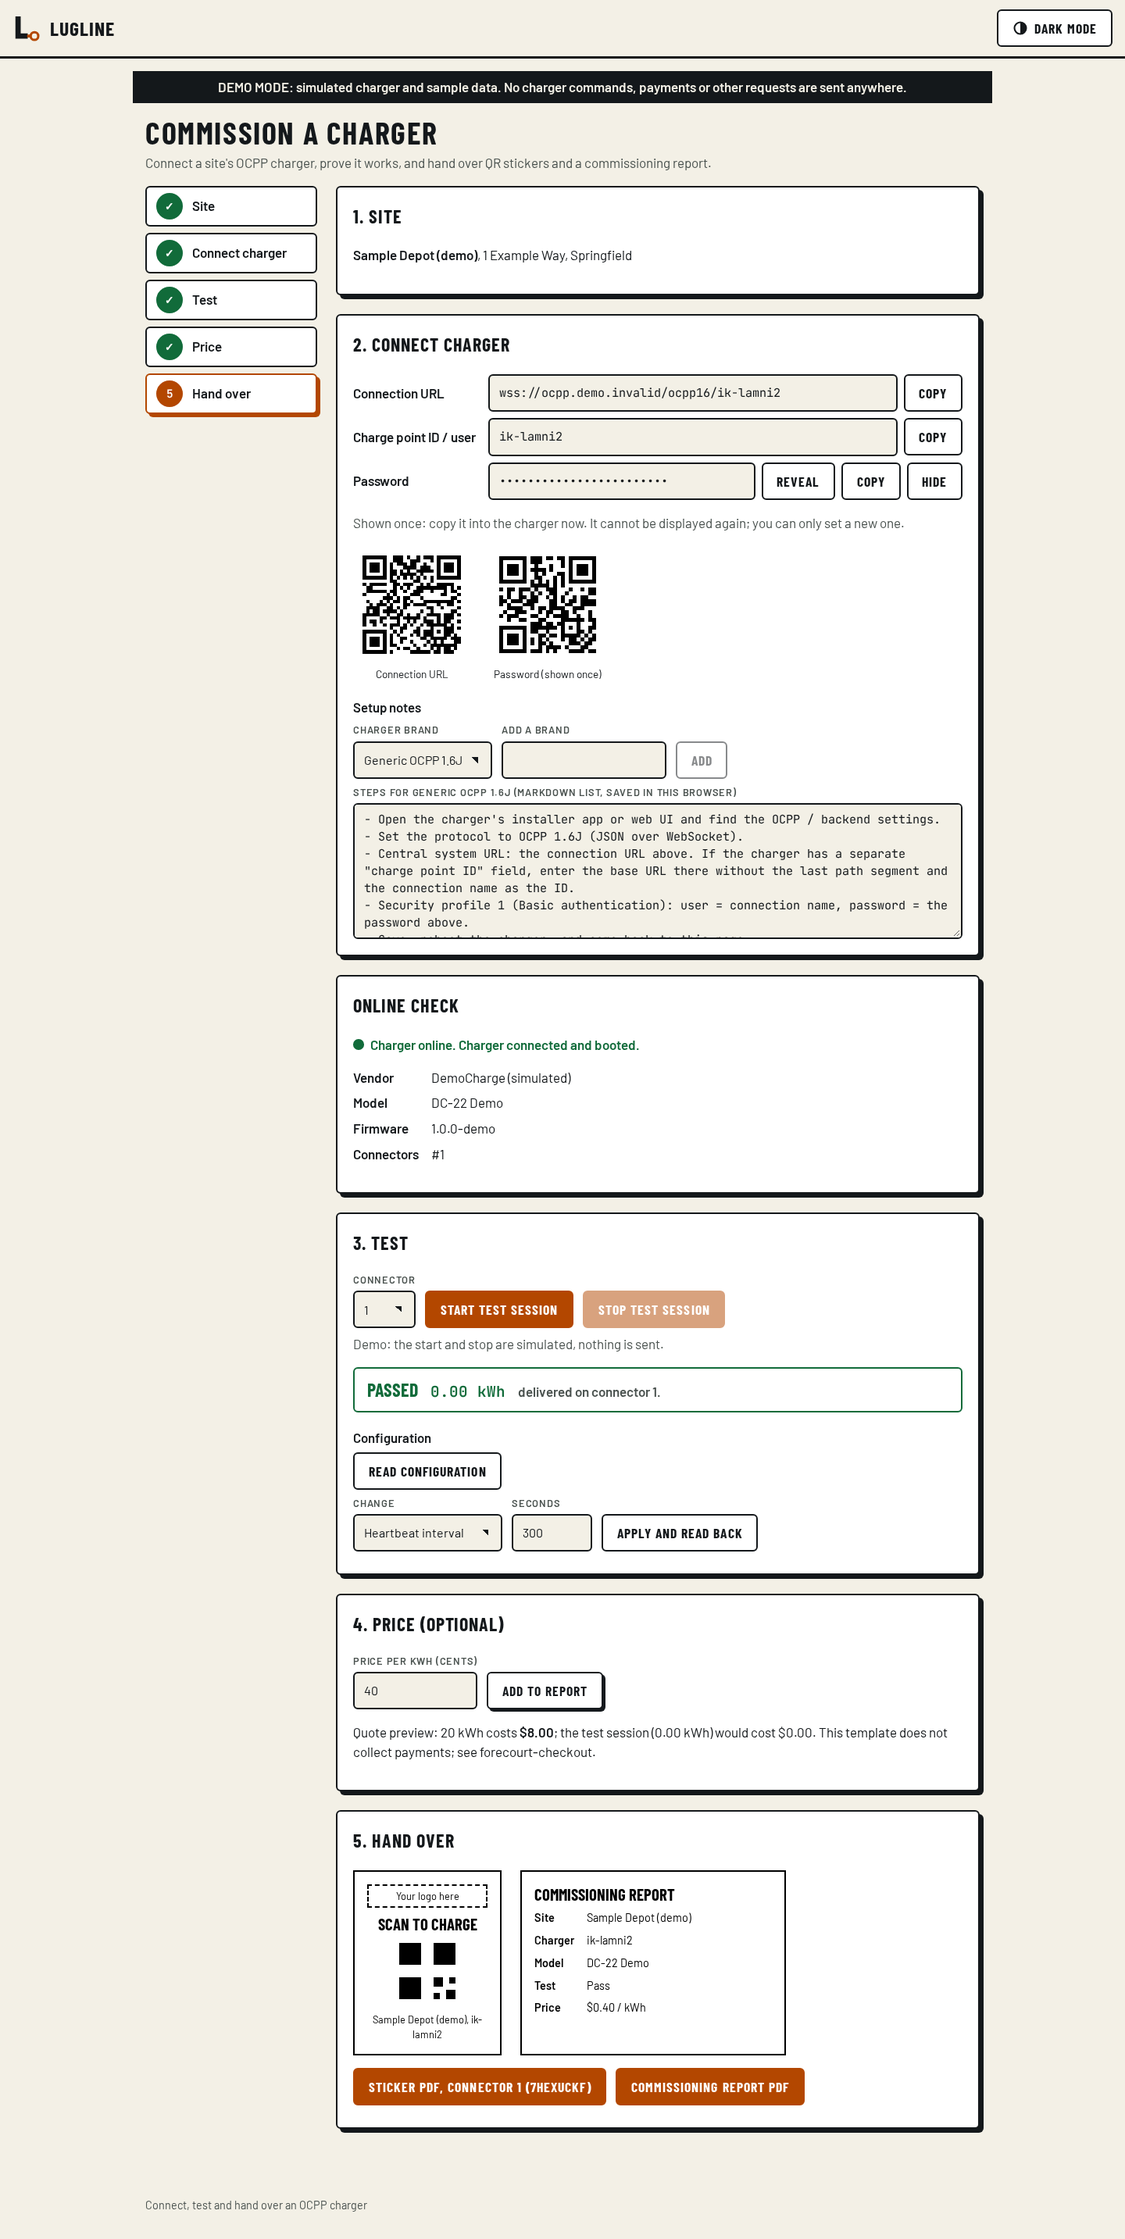
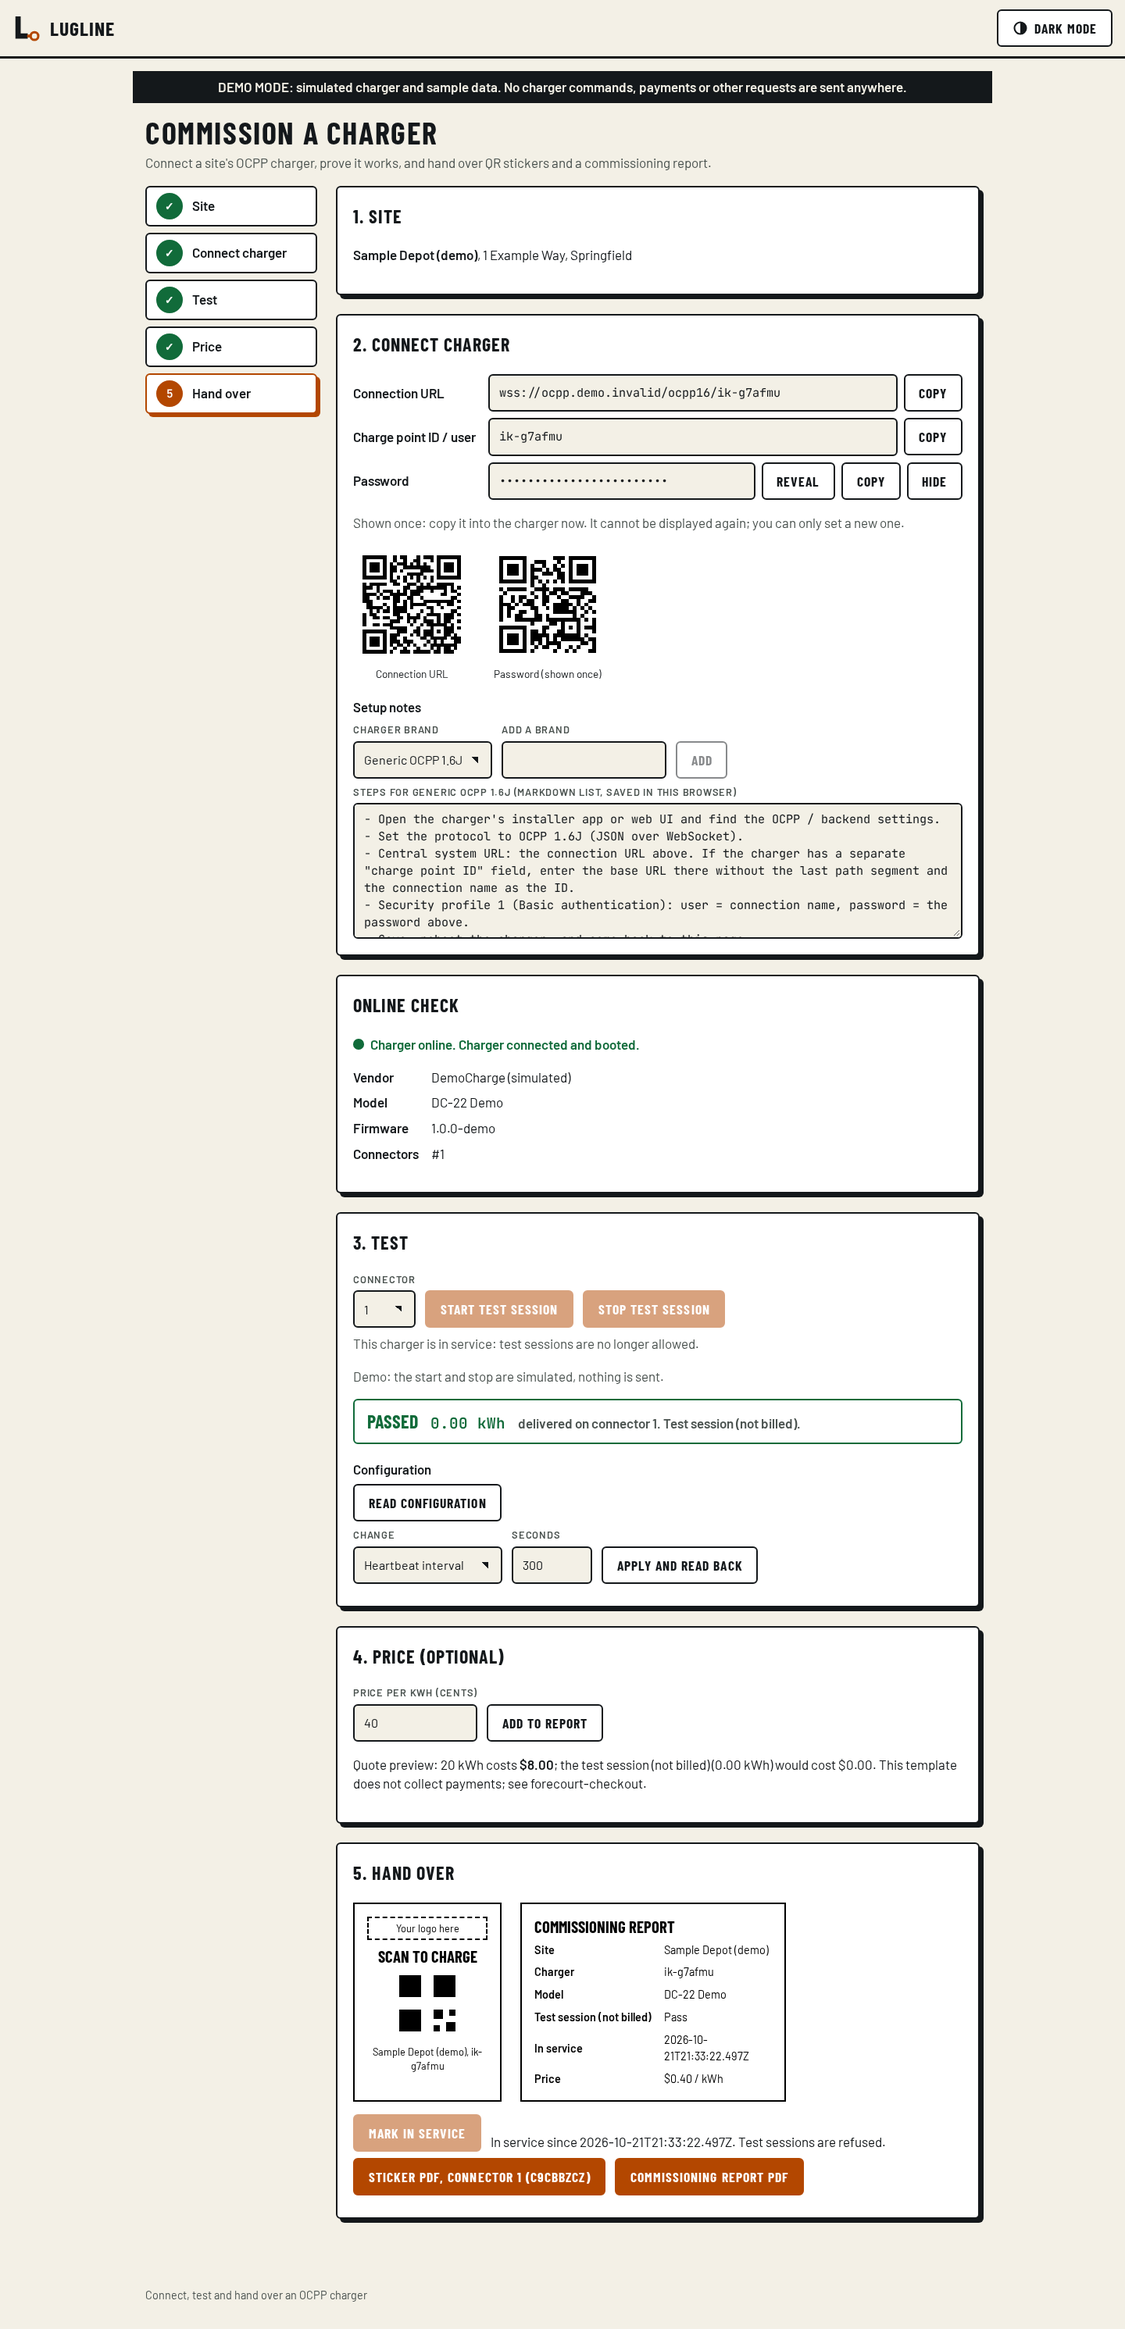
[SQD-57] installer-kit: label test sessions, refuse tests once a charger is in service

Changed region(s): [[0.125, 0.0311, 0.875, 0.9627], [0.875, 0.0, 1.0, 0.0311], [0.0, 0.0, 0.0938, 0.0311]]

diff --git a/installer-kit/src/app/wizard.tsx b/installer-kit/src/app/wizard.tsx
@@ -3,7 +3,13 @@ import { useEffect, useState } from "react";
 import { brand as copy } from "../../brand/brand";
 import { describe } from "@/lib/status";
 import { formatCents, quoteCents } from "@/lib/tariff";
-import type { Charger, ConfigKey, LocationOption, Site } from "@/lib/types";
+import {
+  TEST_SESSION_LABEL,
+  type Charger,
+  type ConfigKey,
+  type LocationOption,
+  type Site,
+} from "@/lib/types";
 import { formatKwh } from "@/lib/units";
 
 const GENERIC_NOTES = `- Open the charger's installer app or web UI and find the OCPP / backend settings.
@@ -527,7 +533,7 @@ export default function Wizard({
               </label>
               <button
                 type="button"
-                disabled={busy || !!testRunning}
+                disabled={busy || !!testRunning || !!charger.inServiceAt}
                 onClick={() =>
                   run(async () =>
                     setCharger(
@@ -557,6 +563,11 @@ export default function Wizard({
                 Stop test session
               </button>
             </div>
+            {charger.inServiceAt && (
+              <p className="muted">
+                This charger is in service: test sessions are no longer allowed.
+              </p>
+            )}
             {demo && (
               <p className="muted">
                 Demo: the start and stop are simulated, nothing is sent.
@@ -577,7 +588,8 @@ export default function Wizard({
                 </span>
                 <span className="kwh">{formatKwh(charger.test.energyWh)}</span>
                 <span className="muted">
-                  delivered on connector {charger.test.connectorNumber}.
+                  delivered on connector {charger.test.connectorNumber}.{" "}
+                  {TEST_SESSION_LABEL}.
                   {charger.test.phase === "done" &&
                     charger.test.energyWh === 0 &&
                     " No energy: plug in a vehicle to see energy flow."}
@@ -699,8 +711,9 @@ export default function Wizard({
               <strong>{formatCents(quoteCents(20_000, tariff))}</strong>
               {charger.test && (
                 <>
-                  ; the test session ({formatKwh(charger.test.energyWh)}) would
-                  cost {formatCents(quoteCents(charger.test.energyWh, tariff))}
+                  ; the {TEST_SESSION_LABEL.toLowerCase()} (
+                  {formatKwh(charger.test.energyWh)}) would cost{" "}
+                  {formatCents(quoteCents(charger.test.energyWh, tariff))}
                 </>
               )}
               . This template does not collect payments; see forecourt-checkout.
@@ -740,8 +753,10 @@ export default function Wizard({
                   <dd>{charger.name}</dd>
                   <dt>Model</dt>
                   <dd>{charger.boot?.model ?? "-"}</dd>
-                  <dt>Test</dt>
+                  <dt>{TEST_SESSION_LABEL}</dt>
                   <dd>{charger.test?.passed ? "Pass" : "-"}</dd>
+                  <dt>In service</dt>
+                  <dd>{charger.inServiceAt ?? "Not yet"}</dd>
                   <dt>Price</dt>
                   <dd>
                     {charger.tariffCentsPerKwh === undefined
@@ -750,6 +765,30 @@ export default function Wizard({
                   </dd>
                 </dl>
               </figure>
+            </div>
+            <div className="row">
+              <button
+                type="button"
+                disabled={busy || !!charger.inServiceAt || !!testRunning}
+                onClick={() =>
+                  run(async () =>
+                    setCharger(
+                      await api<Charger>(
+                        `/api/chargers/${charger.id}/in-service`,
+                        {},
+                      ),
+                    ),
+                  )
+                }
+              >
+                Mark in service
+              </button>
+              {charger.inServiceAt && (
+                <span role="status">
+                  In service since {charger.inServiceAt}. Test sessions are
+                  refused.
+                </span>
+              )}
             </div>
             <div className="row">
               {!qrProblem &&

diff --git a/installer-kit/tests/credentials-pdf.test.ts b/installer-kit/tests/credentials-pdf.test.ts
@@ -1,4 +1,5 @@
 import { describe, expect, it } from "vitest";
+import { inflateSync } from "node:zlib";
 import { PDFDocument } from "pdf-lib";
 import {
   PASSWORD_PATTERN,
@@ -8,7 +9,7 @@ import {
   maskSecret,
 } from "@/lib/credentials";
 import { pdfText, reportPdf, stickerPdf } from "@/lib/pdf";
-import type { Charger, Site } from "@/lib/types";
+import { TEST_SESSION_LABEL, type Charger, type Site } from "@/lib/types";
 
 describe("credentials", () => {
   it("generates strong passwords the API accepts", () => {
@@ -120,6 +121,38 @@ describe("PDFs", () => {
       await reportPdf({ charger: bare, site, stickerBase: null }),
     );
     expect(doc.getPageCount()).toBe(1);
+  });
+
+  it("labels the test session and shows the in-service time", async () => {
+    const text = async (c: Charger) => {
+      const bytes = await reportPdf({ charger: c, site, stickerBase: null });
+      const doc = await PDFDocument.load(bytes);
+      const out: string[] = [];
+      for (const ref of doc.context.enumerateIndirectObjects()) {
+        const [, obj] = ref;
+        const contents = (obj as { contents?: Uint8Array }).contents;
+        if (!contents) continue;
+        try {
+          out.push(Buffer.from(inflateSync(contents)).toString("latin1"));
+        } catch {
+          // Not a compressed stream (fonts, metadata).
+        }
+      }
+      return out.join("\n");
+    };
+    // The standard fonts write strings as hex.
+    const shown = (t: string, v: string) =>
+      expect(t).toContain(
+        `<${Buffer.from(v).toString("hex").toUpperCase()}> Tj`,
+      );
+    const before = await text(charger);
+    shown(before, TEST_SESSION_LABEL);
+    shown(before, "Not yet");
+    const after = await text({
+      ...charger,
+      inServiceAt: "2026-10-19T13:00:00.000Z",
+    });
+    shown(after, "2026-10-19T13:00:00.000Z");
   });
 
   it("replaces characters the standard fonts cannot encode", () => {

diff --git a/installer-kit/src/lib/server/service.ts b/installer-kit/src/lib/server/service.ts
@@ -244,8 +244,16 @@ const inProgress = (t?: TestRun) =>
   t &&
   (t.phase === "starting" || t.phase === "charging" || t.phase === "stopping");
 
+const inServiceError = () =>
+  new HttpError(
+    409,
+    "in_service",
+    "This charger is in service, so test sessions are no longer allowed. Use a normal charging session instead.",
+  );
+
 export async function startTest(id: string, connectorNumber?: number) {
   const c = await refresh(id);
+  if (c.inServiceAt) throw inServiceError();
   if (c.state !== "booted")
     throw new HttpError(
       409,
@@ -276,7 +284,8 @@ export async function startTest(id: string, connectorNumber?: number) {
       "That connector is not free. Wait until it is available, or pick another.",
     );
   // Nothing may be awaited between this check and setting the test, or two
-  // starts could both pass it.
+  // starts could both pass it, or one could start after Mark in service.
+  if (c.inServiceAt) throw inServiceError();
   if (inProgress(c.test))
     throw new HttpError(409, "test_running", "A test is already running.");
   const attempt = c.seq.test + 1;
@@ -316,6 +325,20 @@ function isRefusal(e: unknown) {
     (e instanceof IvoraError && e.refused) ||
     (e instanceof HttpError && e.code === "start_not_accepted")
   );
+}
+
+/** Record that the charger is handed over. Repeating it keeps the first time. */
+export function markInService(id: string): Charger {
+  const c = charger(id);
+  if (c.inServiceAt) return c;
+  if (inProgress(c.test))
+    throw new HttpError(
+      409,
+      "test_running",
+      "Stop the test session before marking the charger in service.",
+    );
+  c.inServiceAt = new Date().toISOString();
+  return c;
 }
 
 export async function stopTest(id: string) {

diff --git a/installer-kit/e2e/demo.spec.ts b/installer-kit/e2e/demo.spec.ts
@@ -42,6 +42,7 @@ test("demo: site, charger, connection, test, config, price and hand-over", async
   await page.waitForTimeout(1500);
   await page.getByRole("button", { name: "Stop test session" }).click();
   await expect(page.getByText(/^Passed/)).toBeVisible();
+  await expect(page.getByText("Test session (not billed).")).toBeVisible();
   await page.getByRole("button", { name: "Read configuration" }).click();
   await expect(page.getByText("300 s")).toBeVisible();
   await page.getByLabel("Seconds").fill("120");
@@ -62,6 +63,19 @@ test("demo: site, charger, connection, test, config, price and hand-over", async
   expect(pdf.headers()["content-type"]).toBe("application/pdf");
   const report = await page.request.get(`/api/chargers/${charger.id}/report`);
   expect((await report.body()).subarray(0, 5).toString()).toBe("%PDF-");
+
+  // Mark in service: recorded with its time; a stale test start is refused.
+  await page.getByRole("button", { name: "Mark in service" }).click();
+  await expect(page.getByText(/In service since 20/)).toBeVisible();
+  await expect(
+    page.getByRole("button", { name: "Start test session" }),
+  ).toBeDisabled();
+  const stale = await page.request.post(`/api/chargers/${charger.id}/test`, {
+    data: { action: "start", connector: 1 },
+    headers: { origin: new URL(page.url()).origin },
+  });
+  expect(stale.status()).toBe(409);
+  expect((await stale.json()).error).toBe("in_service");
 
   // README screenshot of the finished demo (wizard state lives in the page).
   if (process.env.SCREENSHOT) {

diff --git a/installer-kit/tests/demo-flow.test.ts b/installer-kit/tests/demo-flow.test.ts
@@ -7,6 +7,7 @@ import { resetStoreForTests } from "@/lib/server/store";
 import { POST as addChargerRoute } from "@/app/api/chargers/route";
 import { GET as getCharger } from "@/app/api/chargers/[id]/route";
 import { POST as testRoute } from "@/app/api/chargers/[id]/test/route";
+import { POST as inServiceRoute } from "@/app/api/chargers/[id]/in-service/route";
 import { POST as configRoute } from "@/app/api/chargers/[id]/config/route";
 import { GET as stickerRoute } from "@/app/api/chargers/[id]/sticker/route";
 import { GET as reportRoute } from "@/app/api/chargers/[id]/report/route";
@@ -172,6 +173,17 @@ describe("demo mode end to end", () => {
         .toString(),
     ).toBe("%PDF-");
 
+    // Mark in service: recorded with its time, and tests are refused after it.
+    charger = await (
+      await inServiceRoute(post(`/api/chargers/${id}/in-service`, {}), ctx(id))
+    ).json();
+    expect(charger.inServiceAt).toBe(new Date().toISOString());
+    const refused = await testRoute(
+      post(`/api/chargers/${id}/test`, { action: "start", connector: 1 }),
+      ctx(id),
+    );
+    expect(refused.status).toBe(409);
+    expect(await refused.json()).toMatchObject({ error: "in_service" });
     expect(fetchSpy).not.toHaveBeenCalled();
   });
 

diff --git a/installer-kit/src/lib/pdf.ts b/installer-kit/src/lib/pdf.ts
@@ -7,7 +7,7 @@ import {
 } from "pdf-lib";
 import { qrPng } from "./qr";
 import { formatCents } from "./tariff";
-import type { Charger, Site } from "./types";
+import { TEST_SESSION_LABEL, type Charger, type Site } from "./types";
 import { formatKwh } from "./units";
 
 // Written from scratch for this template.
@@ -137,6 +137,7 @@ export async function reportPdf(opts: {
   line("Model", c.boot?.model ?? "-");
   line("Firmware", c.boot?.firmware ?? "-");
   line("Status", c.state);
+  line("In service", c.inServiceAt ?? "Not yet");
   line("Password", c.passwordSet ? "Set (not shown)" : "Not confirmed");
 
   heading("Connectors and stickers");
@@ -149,7 +150,7 @@ export async function reportPdf(opts: {
         : "-",
     );
 
-  heading("Test session");
+  heading(TEST_SESSION_LABEL);
   const t = c.test;
   line(
     "Result",
@@ -162,7 +163,7 @@ export async function reportPdf(opts: {
           : `In progress (${t.phase})`,
   );
   if (t) {
-    line("Energy delivered", formatKwh(t.energyWh));
+    line("Energy delivered", `${formatKwh(t.energyWh)} (test)`);
     line("Started", t.startedAt ?? "-");
     line("Finished", t.finishedAt ?? "-");
   }

diff --git a/installer-kit/tests/test-session.test.ts b/installer-kit/tests/test-session.test.ts
@@ -5,6 +5,7 @@ import {
   addCharger,
   createSite,
   refresh,
+  markInService,
   setBackendForTests,
   startTest,
   stopTest,
@@ -232,5 +233,26 @@ describe("test session start and stop", () => {
     ]);
     expect(results.filter((r) => r.status === "fulfilled")).toHaveLength(1);
     expect(fake.state.starts).toHaveLength(1);
+  });
+
+  it("refuses a test start once the charger is marked in service", async () => {
+    const c = markInService(id);
+    expect(c.inServiceAt).toBe(iso(0));
+    // Repeating it keeps the first time.
+    vi.setSystemTime(NOW + 5_000);
+    expect(markInService(id).inServiceAt).toBe(iso(0));
+    // A stale page that still shows the Start button gets a 409.
+    await expect(startTest(id, 1)).rejects.toMatchObject({
+      status: 409,
+      code: "in_service",
+    });
+    expect(fake.state.starts).toEqual([]);
+  });
+
+  it("will not mark in service while a test is running", async () => {
+    await startTest(id, 1);
+    expect(() => markInService(id)).toThrowError(
+      expect.objectContaining({ code: "test_running" }),
+    );
   });
 });

diff --git a/installer-kit/src/lib/types.ts b/installer-kit/src/lib/types.ts
@@ -58,6 +58,12 @@ export type TestRun = {
   errorCode?: string;
 };
 
+/**
+ * Sessions started with the INSTALLER-TEST token are commissioning tests,
+ * not customer sessions. Every record that shows one uses this label.
+ */
+export const TEST_SESSION_LABEL = "Test session (not billed)";
+
 export type ConfigKey = "HeartbeatInterval" | "MeterValueSampleInterval";
 
 export type ConfigReadback = {
@@ -88,6 +94,8 @@ export type Charger = {
   test?: TestRun;
   config?: ConfigReadback;
   tariffCentsPerKwh?: number;
+  /** Set by "Mark in service"; no test session can start after it. */
+  inServiceAt?: string;
   /** Counters that make idempotency keys unique per record and action. */
   seq: { credentials: number; test: number; config: number };
 };

diff --git a/installer-kit/scripts/screens.ts b/installer-kit/scripts/screens.ts
@@ -49,6 +49,8 @@ for (const [device, viewport] of Object.entries(VIEWPORTS)) {
       await expect(page.getByText(/^Passed/)).toBeVisible();
       await page.getByLabel("Price per kWh (cents)").fill("40");
       await page.getByRole("button", { name: "Add to report" }).click();
+      await page.getByRole("button", { name: "Mark in service" }).click();
+      await expect(page.getByText(/In service since 20/)).toBeVisible();
       await shot("handover");
       await ctx.close();
     });

diff --git a/installer-kit/src/app/api/chargers/[id]/in-service/route.ts b/installer-kit/src/app/api/chargers/[id]/in-service/route.ts
@@ -1,0 +1,8 @@
+import { NextResponse } from "next/server";
+import { guarded, type IdContext } from "@/lib/server/route";
+import { markInService } from "@/lib/server/service";
+
+/** Record that the charger is in service; test sessions are refused after it. */
+export const POST = guarded({ write: true }, async (_req, ctx: IdContext) =>
+  NextResponse.json(markInService((await ctx.params).id)),
+);

diff --git a/installer-kit/README.md b/installer-kit/README.md
@@ -7,7 +7,7 @@ For installers and hardware sellers: connect a site's OCPP 1.6J charger to Ivora
 3. **Wait for connection:** live status from webhooks (`station.connected`, `station.booted`, `station.disconnected`) and polling every 2 seconds. Shows vendor, model, firmware and connectors once the charger boots, with troubleshooting hints for a wrong URL, a wrong password or no network.
 4. **Test:** remote start and stop of a short session on a chosen connector, with energy delivered (kWh). Reads the heartbeat and meter value intervals back from the charger, and can change either and read it back again.
 5. **Price (optional):** a per-kWh price in integer cents with a quote preview, recorded on the report.
-6. **Hand-over:** a printable QR sticker PDF per connector and a commissioning report PDF (charger details, test result, configuration, date).
+6. **Hand-over:** a printable QR sticker PDF per connector and a commissioning report PDF (charger details, test result, configuration, date, in-service time). **Mark in service** records the time on the charger; after that the kit refuses to start a test on it (`409 in_service`).
 
 This template collects no payments. For paid charging, see [forecourt-checkout](../forecourt-checkout) and [Squid](https://github.com/Ivora-Charge/squid).
 
@@ -112,7 +112,7 @@ All calls go from the server to `https://api.ivoracharge.com` ([OpenAPI](https:/
 - Every write sends an `Idempotency-Key` derived from this app's record and action (for example `<charger>:test:2:start`). Retries after `429`, `5xx`, a lost response, `request_in_progress` or `outcome_unknown` reuse the same key; other `4xx` errors are not retried. `429` waits for `Retry-After` when it is 10 seconds or less, otherwise the error goes back to the operator.
 - Locations and stations carry an `external_reference`, so an uncertain create is adopted instead of duplicated.
 - Errors show the API's code, message and request ID with a link to [Errors and statuses](https://ivoracharge.com/developers/guides/reference/errors).
-- The test session starts with the operator ID tag `INSTALLER-TEST`. A start is an operator command and authorizes no payment. Energy is 0 kWh if no vehicle is plugged in; the test passes when the charger accepts the remote start and stop and reports the transaction.
+- The test session starts with the operator ID tag `INSTALLER-TEST`. A start is an operator command and authorizes no payment. The kit labels these sessions "Test session (not billed)" in the wizard, the quote preview and the report. **These sessions appear in Ivora under the `INSTALLER-TEST` token: exclude that token from billing and revenue reports.** A commissioning tool runs before a charger is in service, so Mark in service (step 5) ends testing for that charger. Energy is 0 kWh if no vehicle is plugged in; the test passes when the charger accepts the remote start and stop and reports the transaction.
 - Units: OCPP 1.6 meter registers are Wh, session energy is shown in kWh (`src/lib/units.ts`), and money is integer cents.
 
 ## Limits and next steps
